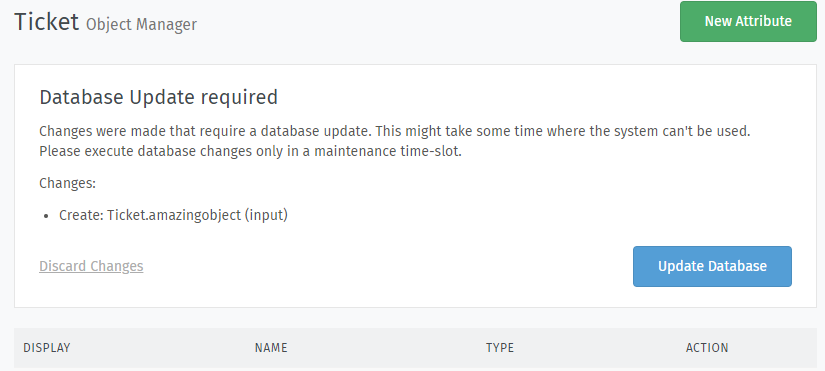
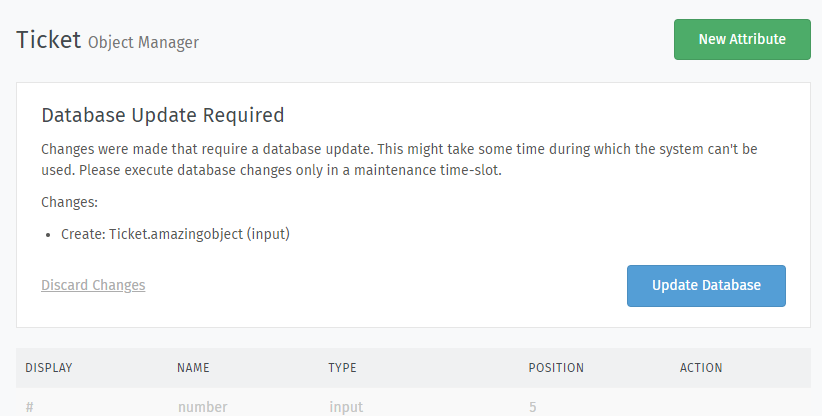
Update obsolete screenshots & texts for objects due to string changes

diff --git a/system/objects/types.rst b/system/objects/types.rst
@@ -88,10 +88,10 @@ Text
 
       Currently available:
 
-         * email
-         * phone
-         * text
-         * url *(url fields disable link-template availability)*
+         * Email
+         * Phone
+         * Text
+         * Url *(URL fields disable link-template availability)*
 
    Maxlength
       you can pick the maximum length of the field.
